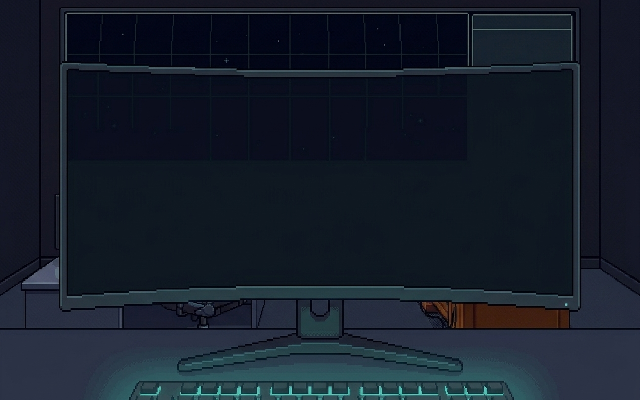
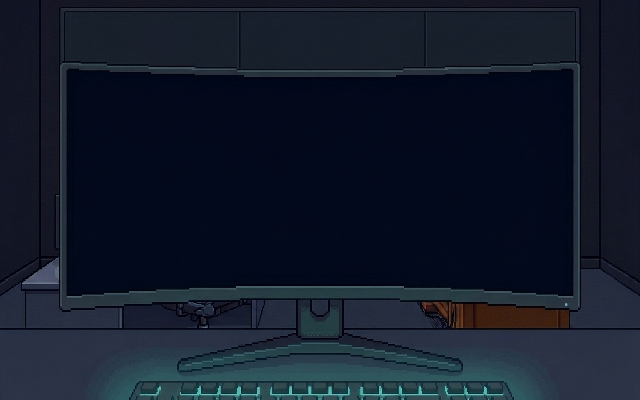
art: room-ch4 CRT label, win frame, solid PC screen (2026-11-13)
Claude-Session: https://claude.ai/code/session_014bw7Voj6ZyqA75pqeRWNHh

Changed region(s): [[0.0938, 0.03, 0.9062, 0.18]]

diff --git a/art-drops/2026-11-12-room-ch4/HANDBACK.md b/art-drops/2026-11-12-room-ch4/HANDBACK.md
@@ -8,6 +8,7 @@ From `briefs/art/01-rooms-2-5.md` (room 4) and `briefs/art/02-persona-cards.md` 
 |---|---|
 | `R4_ops_room.png` | Room plate |
 | `R4_npc_talk_1.png`, `R4_npc_talk_2.png` | The persona in two other moments; differ from the plate only in the region below |
+| `R4_npc_win.png` | **New 2026-11-13.** Win frame: phone lowered, a two-finger salute (o7) and a tired grin (`ch4.recovered`, `ch4.win`) |
 | `R4_wall_closeup.png` | The wall display straight on, all panels blank |
 | `R4_pc_closeup.png` | The hero's computer screen straight on, blank |
 | `P4_card.png` | `P4_card`: Knight of the Pager. Plate armour, no helmet, headset round her neck, sword raised, a shield with a plain bell, a green pager on her belt, a lantern at her feet, a rampart at night. Reads at 128×80. |
@@ -45,11 +46,21 @@ From `briefs/art/01-rooms-2-5.md` (room 4) and `briefs/art/02-persona-cards.md` 
 
 The loop plate → talk_1 → plate → talk_2 swaps cleanly. Changed region: talk_1: x 227–318, y 78–181. talk_2: x 227–318, y 78–182. (the region includes a few stray pixels round the figure that match the plate to within a shade).
 
+## Updates for the revised script (2026-11-13)
+
+Cloud Claude rewrote chapter 4 around this drop; these changes fit the art to it:
+- **A blank masking-tape label on the old CRT** at about **x 217–256, y 88–119**, for `ch4.look.npc`'s "a label: THE FLEET CODE. ASK EINAR." The words are left to the game, as the brief asks: draw them on the tape in the close-up of a look, or just say them. (A try with the words painted in came out misspelled.) It's in the plate and every NPC frame.
+- **New `R4_npc_win`:** the pilots' "o7" salute. With the talk frames, the frame-swap area is **x 227, y 77, w 92, h 106**.
+- **`R4_pc_closeup` redone:** the old screen was see-through (the wall of space showed through its top half). The screen is now solid, even and blank, at x 33–285, y 34–147. This is where Claw Codez's chat goes.
+- **The wall display needed no change:** the star map (fleet dots), the lane under it (the smug flat green health line) and the chat column (lag in nine languages, then o7) all match `ch4.wall.*`.
+
 ## Flaws kept
 
 See "Changes from the brief". Nothing else known.
 
 ## Provenance
+
+- **2026-11-13 updates:** label: an edit of the plate, 2 tries, t2 (blank tape) kept, only the label composited. Win frame: an edit, 2 tries, t1 kept, only her figure composited. PC close-up: an edit of the old close-up, 2 tries, t1 kept. Script: `gen_set.py` (`R4_label`, `R4_npc_win`, `R4_pc2`).
 
 - **Tool:** Gemini API `gemini-3.1-flash-image`, 3:2, 1K, 2026-11-12, on Rick's personal account.
 - **Plate:** the brief's room prompt with its opening and closing lines, `scratch/room_gen/raw/R1_exec_floor.png` attached as the style reference (`scratch/room_gen/gen_rooms.py`).
